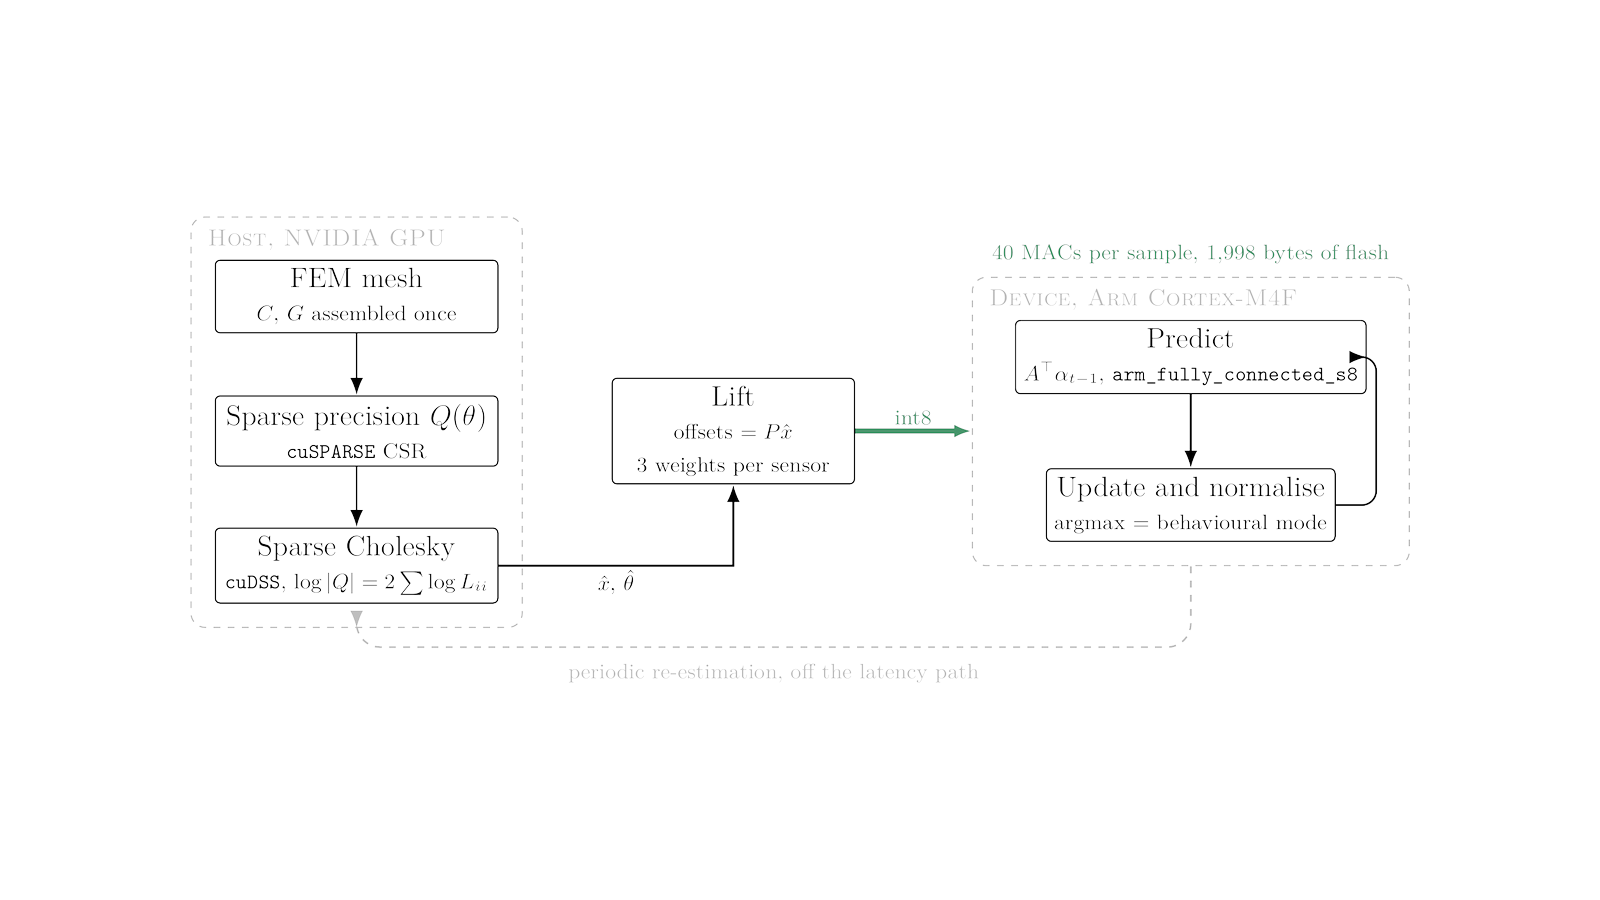
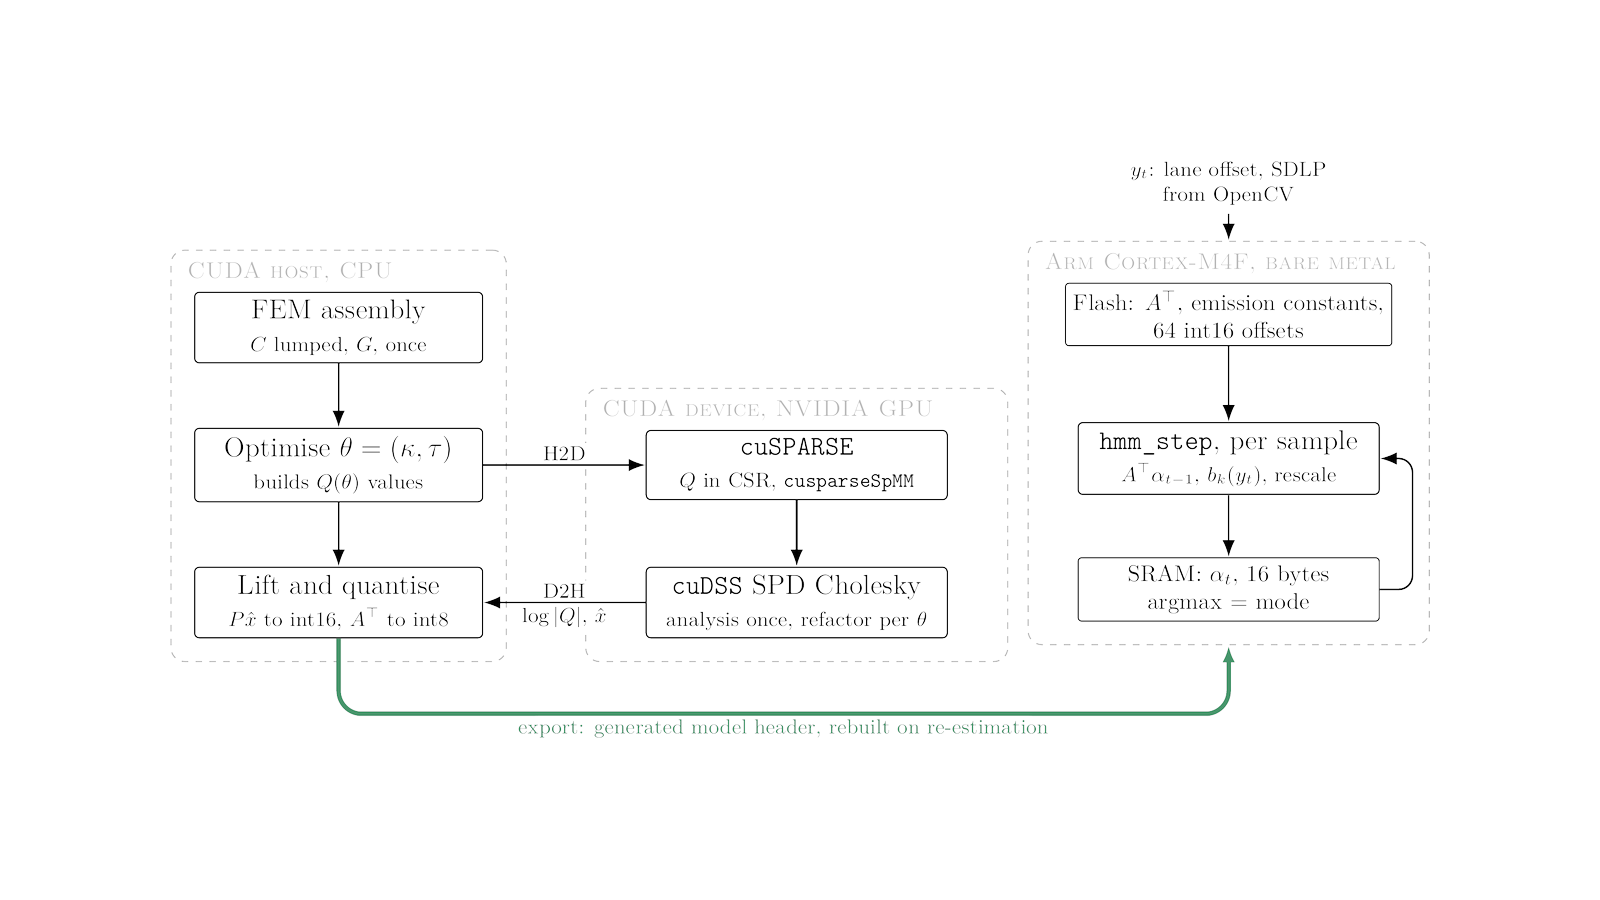
Redraw lane perception thumbnail: CUDA host and device split, H2D and D2H transfers, Cortex-M4F flash and SRAM roles

diff --git a/landing/src/content/site.ts b/landing/src/content/site.ts
@@ -97,7 +97,7 @@ export const PROJECTS = [
   {
     name: "Split SPDE-GMRF inference for lane perception",
     stack: ["cuDSS", "cuSPARSE", "CMSIS-NN", "Cortex-M4F"],
-    thumb: { src: "/thumbs/thumb-spde.png", alt: "Host NVIDIA GPU assembles the sparse SPDE precision and factorises it with cuDSS; a sparse projector lifts the field estimate to sensor sites; an Arm Cortex-M4F runs the int8 forward filter each sample, with periodic re-estimation off the latency path" },
+    thumb: { src: "/thumbs/thumb-spde.png", alt: "CUDA host CPU assembles the FEM mesh and optimises theta, sending Q values to the NVIDIA GPU where cuSPARSE holds Q in CSR and cuDSS refactorises it per theta, returning log determinant and field estimate; the host lifts and quantises the result into a generated model header in Cortex-M4F flash, where hmm_step runs once per lane observation and keeps a 16 byte belief in SRAM" },
     tag: "HPC",
     summary:
       "Splits inference for lane perception between host and device. A GPU path built with `cuSPARSE` and `cuDSS` factorises the sparse SPDE precision to estimate the spatial field, and an int8 forward filter on `Cortex-M4F` tracks the driver's behavioural mode in 40 MACs per sample and 1,998 bytes of flash. Reordering cuts factor fill-in by about 74%, and the int8 filter matches the float reference on 99.66% of samples.",
